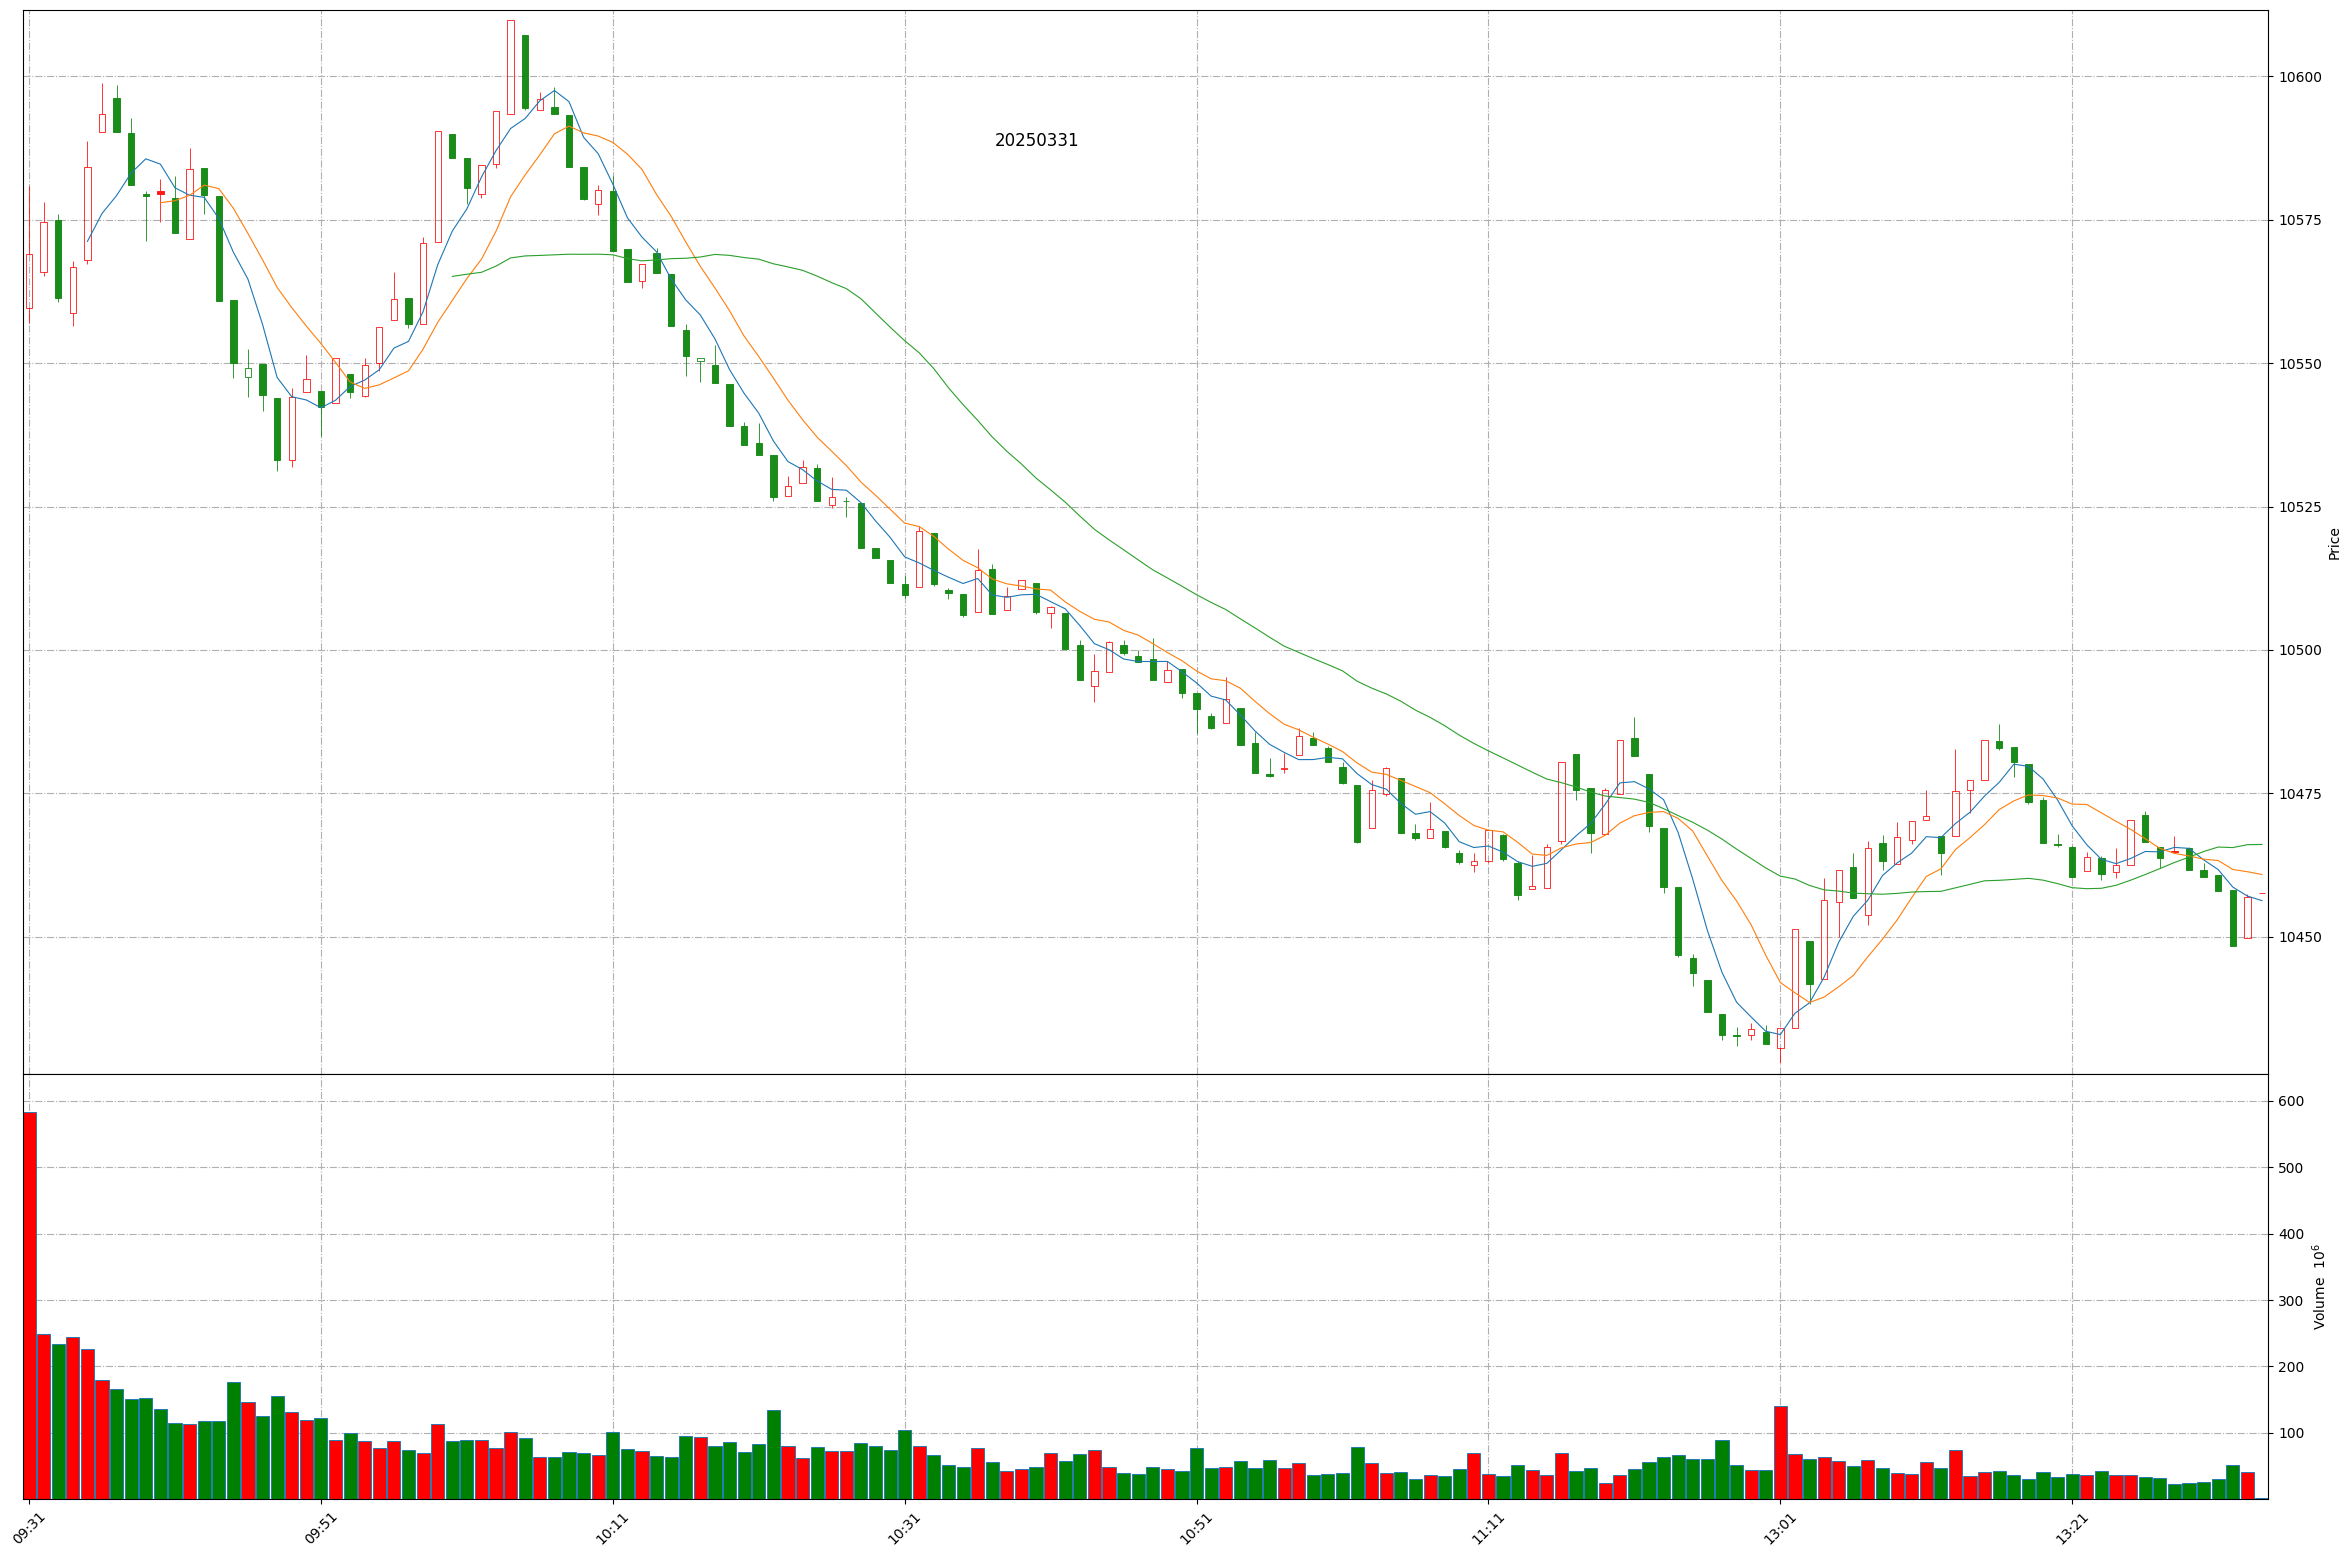
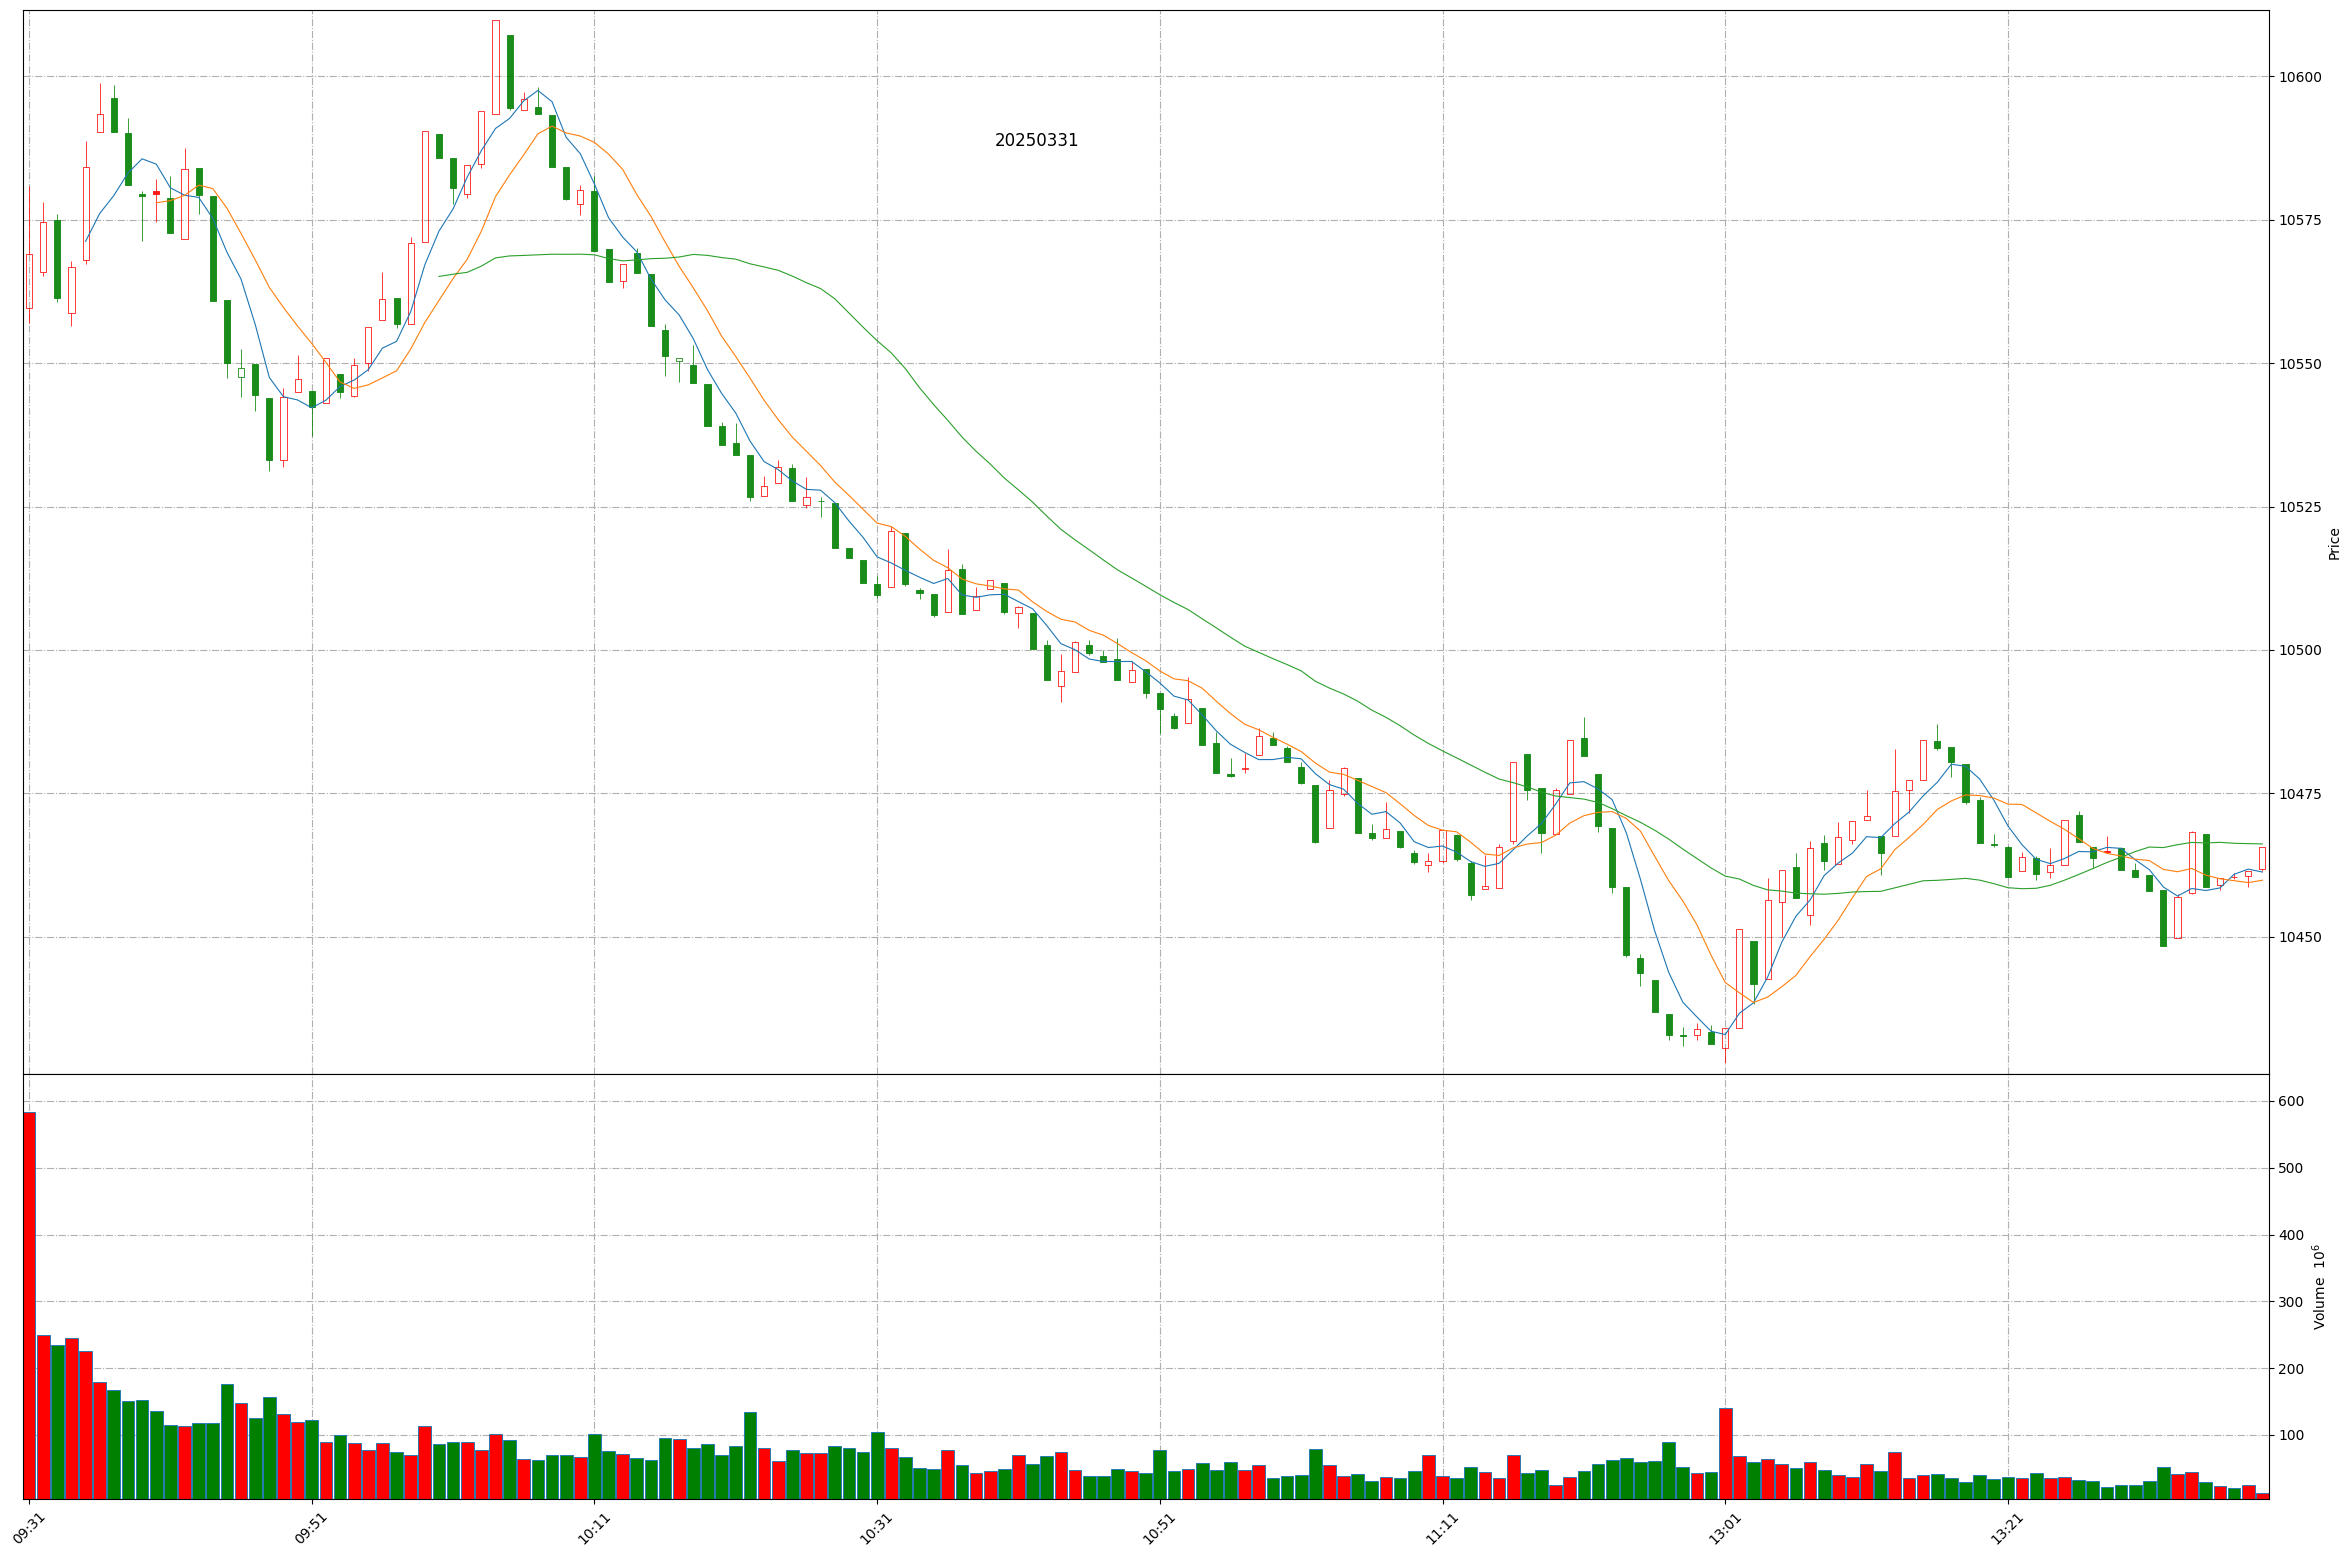
Github action update at 2025-03-31 13:38:48.

Changed region(s): [[0.0311, 0.8632, 0.9626, 0.9865], [0.0311, 0.0308, 0.5589, 0.4933], [0.5589, 0.4624, 0.9626, 0.6782]]

diff --git a/README.md b/README.md
@@ -1,11 +1,11 @@
 
 # Daily-A-share-market-quotes 每日 A 股指数（5min 更新）- 20250331
 
-### 上证指数 20250331 13:33
+### 上证指数 20250331 13:38
 ![](./fig/2025/3/20250331-sh000001.png)
 
-### 深证成指 20250331 13:33
+### 深证成指 20250331 13:38
 ![](./fig/2025/3/20250331-sz399001.png)
 
-### 北证50 20250331 13:33
+### 北证50 20250331 13:38
 ![](./fig/2025/3/20250331-bj899050.png)
